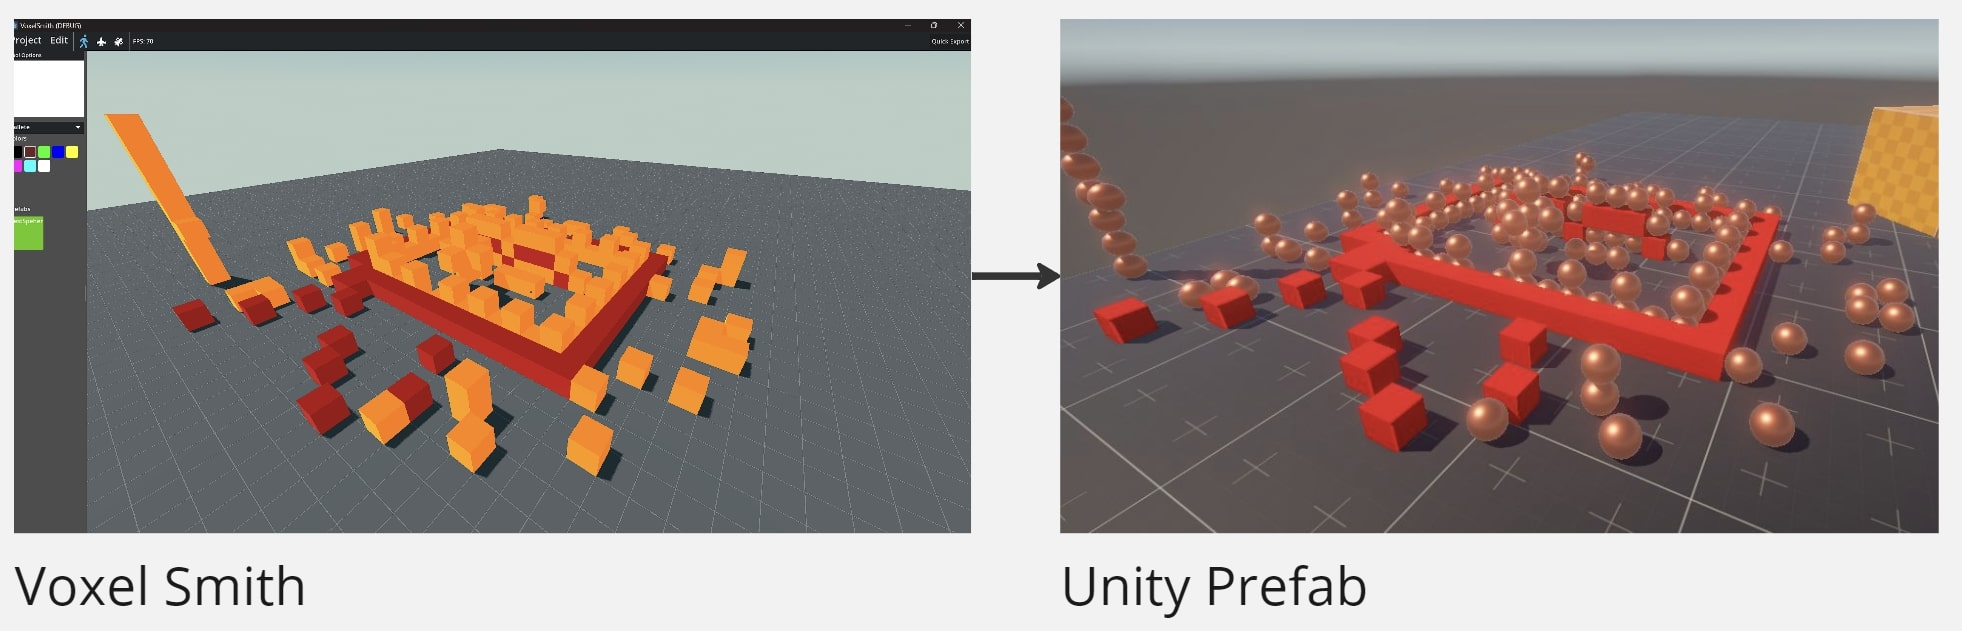
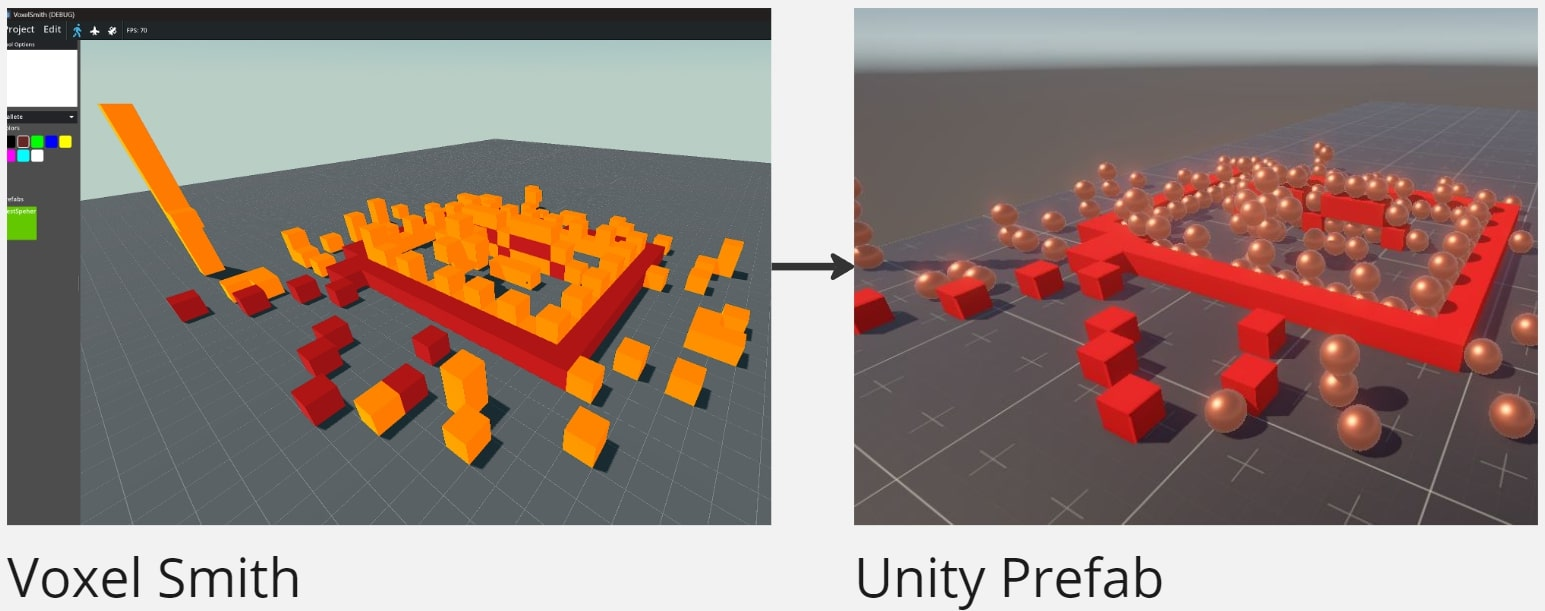
Edit VoxelSmith and Enigma Escape

diff --git a/src/routes/Projects/VoxelSmith.vue b/src/routes/Projects/VoxelSmith.vue
@@ -7,9 +7,9 @@
 
     <div class="flex justify-start flex-col gap-8 w-full xl:px-20 md:px-10 p-2">
         
-        <section class="xl:flex xl:justify-between gap-8">
+        <section class="xl:flex xl:justify-between lg:gap-8 gap-4">
             
-            <div class="text-lg xl:w-2/4 mb-8 xl:mb-0 xl:px-0 px-5">
+            <div class="lg:text-lg text-base xl:w-2/4 mb-8 xl:mb-0 xl:px-0 px-5">
                 <p class="">
                     Voxel Smith is a 3D level editor based on voxels. The editor includes a subwindow in which you can control a character that allows you to walk/fly through the world. You can place and break voxels from your palette. You can also use the cube and line tool two drag between two points and fill or break the selection. This palette is fully customizable and also supports linking Unity Prefabs. 
                 </p>
@@ -22,12 +22,20 @@
             <img class="xl:w-2/4 xl:pr-10 xl:px-0 px-5 object-contain object-top" src="../../assets/VoxelSmith/VoxelSmith8.jpg" alt="">
         </section>
 
-        <h2 class="font-bold text-2xl">Process</h2>
+        <h2 class="font-bold text-3xl">Process</h2>
+        
+        <div class="lg:text-lg text-base mb-8 xl:mb-0 xl:px-0 px-5">
+            <p class="">
+                I started this project on request of two designers I was going to work with 2 months later in a school project. With this tool, they wanted to speed up the creation of 3D level design to quickly test and iterate the design. During the development, I frequently went back to them to get feedback on the current state of the tool. 
+            </p>
+        </div>
 
-        <section class="xl:flex xl:justify-between gap-8">
-            <div class="text-lg xl:w-2/5 mb-8 xl:mb-0 xl:px-0 px-5">
+        <h2 class="text-2xl">Rust, Obj and NBT</h2>
+
+        <section class="flex justify-between xl:flex-row flex-col-reverse lg:gap-8 gap-4 mb-5">
+            <div class="lg:text-lg text-base xl:w-2/5 mb-8 xl:mb-0 xl:px-0 px-5">
                 <p class="">
-                    Initially, I started this project in Native Rust, this was because I like working in Rust and because it offers a lot of speed and stability by itself. In addition, for Rust I was able to find the package fastNBT2 that allowed me to easily import Minecraft Schematic files. From here, I first wanted to translate it to a 3D model. For this, I chose WaveFront OBJ files because it is an easy-to-read and write file format supported in almost every game engine. In the images, you can see the steps I took to get this to work 
+                    Initially, I started this project in Native Rust, this was because I like working in Rust and because it offers a lot of speed and stability by itself. In addition, for Rust I was able to find the package fastNBT2 that allowed me to easily import Minecraft Schematic files. From here, I first wanted to translate it to a 3D model. For this, I chose WaveFront OBJ files because it is an easy-to-read and write file format supported in almost every game engine. In these images, you can see the steps I took to get this to work. 
                 </p>
             </div>
             
@@ -37,15 +45,20 @@
             </div>
         </section>
 
-        <section class="xl:flex xl:justify-between gap-8">    
-            <div class="xl:w-3/5 xl:pr-10 xl:px-0 px-5 object-contain flex justify-start flex-col gap-4">
-                <img src="../../assets/VoxelSmith/VoxelSmith2.jpg" alt="">
-                <img src="../../assets/VoxelSmith/VoxelSmith3.jpg" alt="">
+        <h2 class="text-2xl">Godot & Unity Prefabs</h2>
+
+        <section class="flex justify-between xl:flex-row flex-col lg:gap-8 gap-4">    
+            <div class="xl:w-1/2 xl:pr-10 xl:px-0 px-5 object-contain flex justify-start flex-col gap-4">
+                <img src="../../assets/VoxelSmith/VoxelSmith1.jpg" alt="">
             </div>
 
-            <div class="text-lg xl:w-2/5 mb-8 xl:mb-0 xl:px-0 px-5">
+            <div class="lg:text-lg text-base xl:w-1/2 mb-8 xl:mb-0 xl:px-0 px-5">
                 <p class="">
-                    Initially, I started this project in Native Rust, this was because I like working in Rust and because it offers a lot of speed and stability by itself. In addition, for Rust I was able to find the package fastNBT2 that allowed me to easily import Minecraft Schematic files. From here, I first wanted to translate it to a 3D model. For this, I chose WaveFront OBJ files because it is an easy-to-read and write file format supported in almost every game engine. In the images, you can see the steps I took to get this to work 
+                    After rethinking the project, I ported the codebase to Godot to make use of the 3D capabilities and easy UI integration the engine provided. 
+                </p>
+
+                <p class="mt-5">
+                    Starting the export to Unity Prefabs was challenging due to Unity's closed code and lack of official documentation on ".prefab" files. After researching serialization IDs from several isolated forums and blogposts, I successfully exported a functional prefab. This image illustrates the process, where orange voxels are translated into instances of TestSphere.prefab.
                 </p>
             </div>
         </section>

diff --git a/src/routes/Projects/EnigmaEscape.vue b/src/routes/Projects/EnigmaEscape.vue
@@ -1,23 +1,27 @@
 <template>
     <ProjectPage 
         :title="'Enigma Escape'"
-        :description="'Enigma Escape is a 2D puzzle platformer where the puzzle comes from physically assembling your controller. This project was created using C++ with Arduino and C# with Unity.'"
+        :description="''"
         :subtitle="'Team of 5'"
     >
-        <div class="flex justify-between h-80">
+        <div class="flex justify-between md:flex-row flex-col gap-8 p-5">
 
-            <p class="text-lg md:w-1/2 md:h-1/2">
-                laksjdfljas df;lajsljfl;kajsd;l jflasjdl fjal;sk dj;flja sldjf l;aj sdljf ;lasjdl;fj l;ajsdlkfjlk;asdj ;flajsl;djf l;kasj d;lfjal;s d jfl;asj dl;kfj a;lskjd l;fja l;sddj fl;ajsl;d jfl;asjd ;ljf;l asjdl;fj alsdj f;ljkasdf
+            <p class="text-lg md:w-1/2">
+                Enigma Escape is a 2D puzzle platformer where the puzzle comes from physically assembling your controller. This project was created using C++ with Arduino and C# with Unity.
             </p>
 
-            <LiteYouTubeEmbed
-                id="NIxikwfLS8Y"
-                title="Enigma Escape Trailer Video"
-            />
+            <div class="md:w-1/2">
+                <LiteYouTubeEmbed
+                    id="NIxikwfLS8Y"
+                    title="Enigma Escape Trailer Video"
+                />
+            </div>
         </div>
         
+        
+        <div class="mb-20"></div>
 
-        <div class="grid grid-cols-2 md:grid-cols-4 gap-4">
+        <div class="grid grid-cols-2 md:grid-cols-4 gap-4 p-2">
             <div class="grid gap-4">
                 <div>
                     <img class="h-auto max-w-full rounded-lg" src="../../assets/EnigmaEscape/EnigmaEscapeProcess1.jpg" alt="">
@@ -72,9 +76,3 @@ import LiteYouTubeEmbed from 'vue-lite-youtube-embed'
 import 'vue-lite-youtube-embed/style.css'
 
 </script>
-
-<style scoped>
-.youtube-iframe {
-    @apply md:w-56 md:h-56
-}
-</style>
